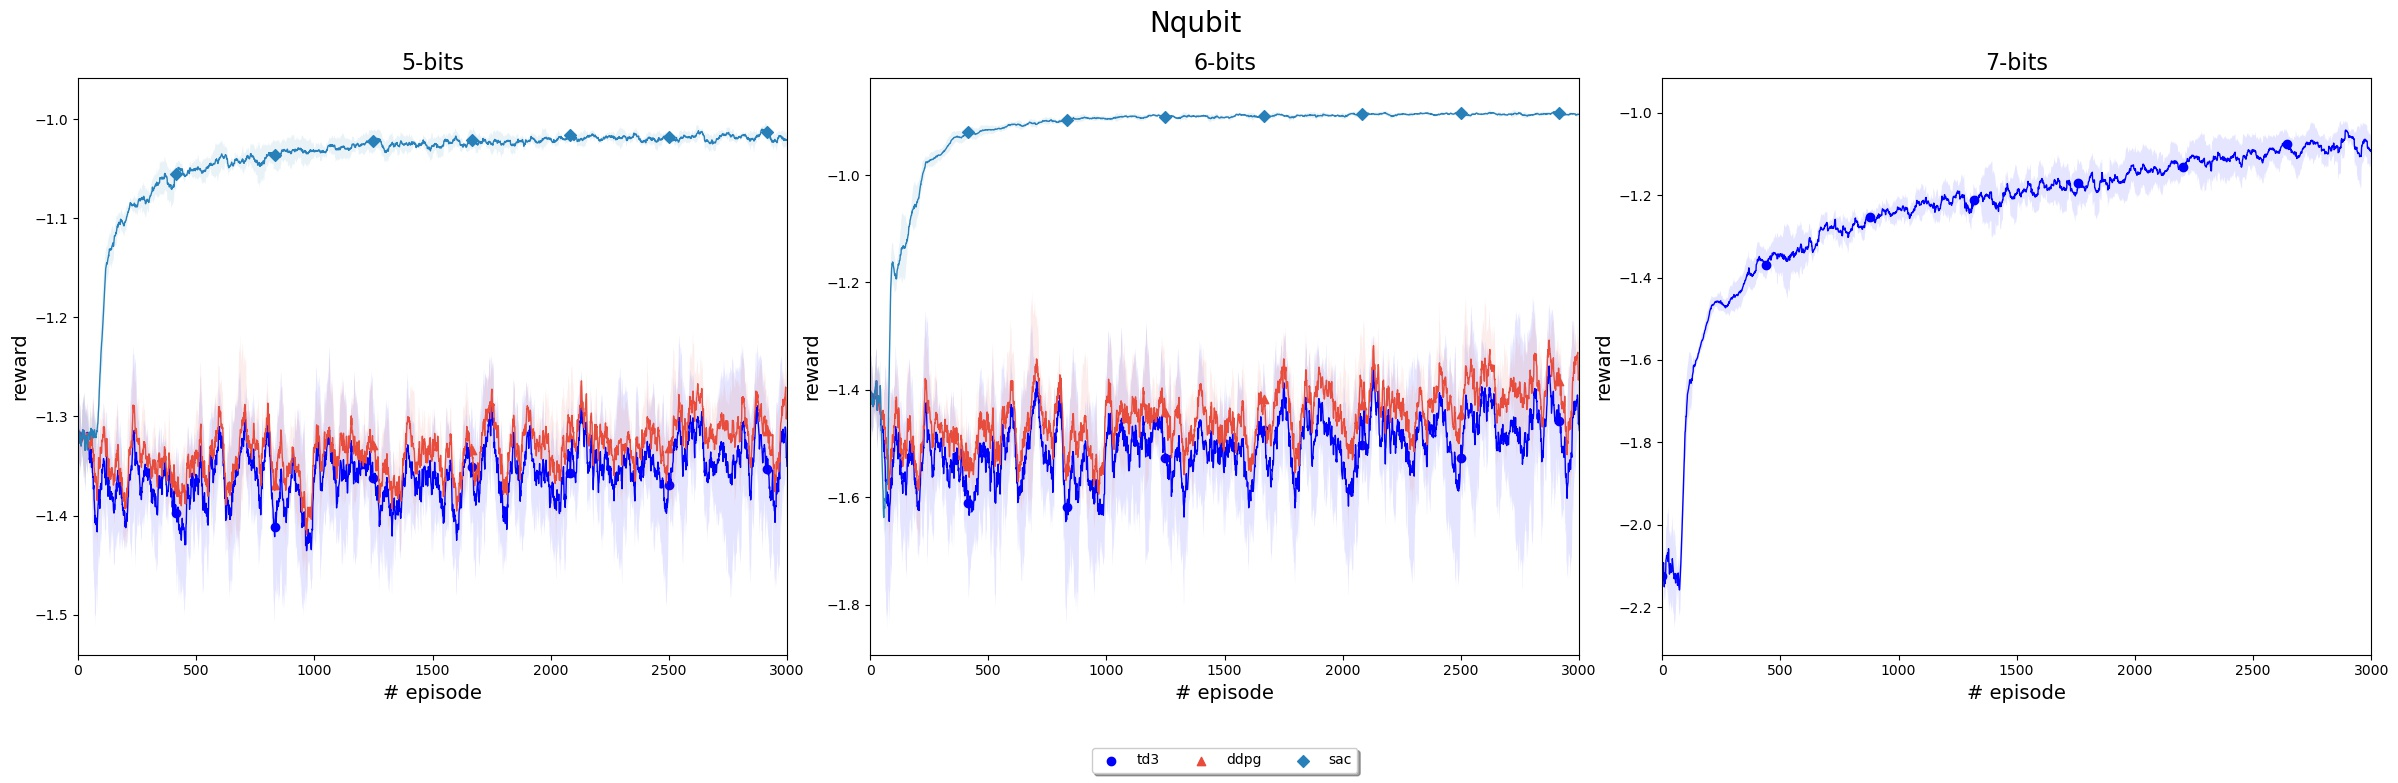
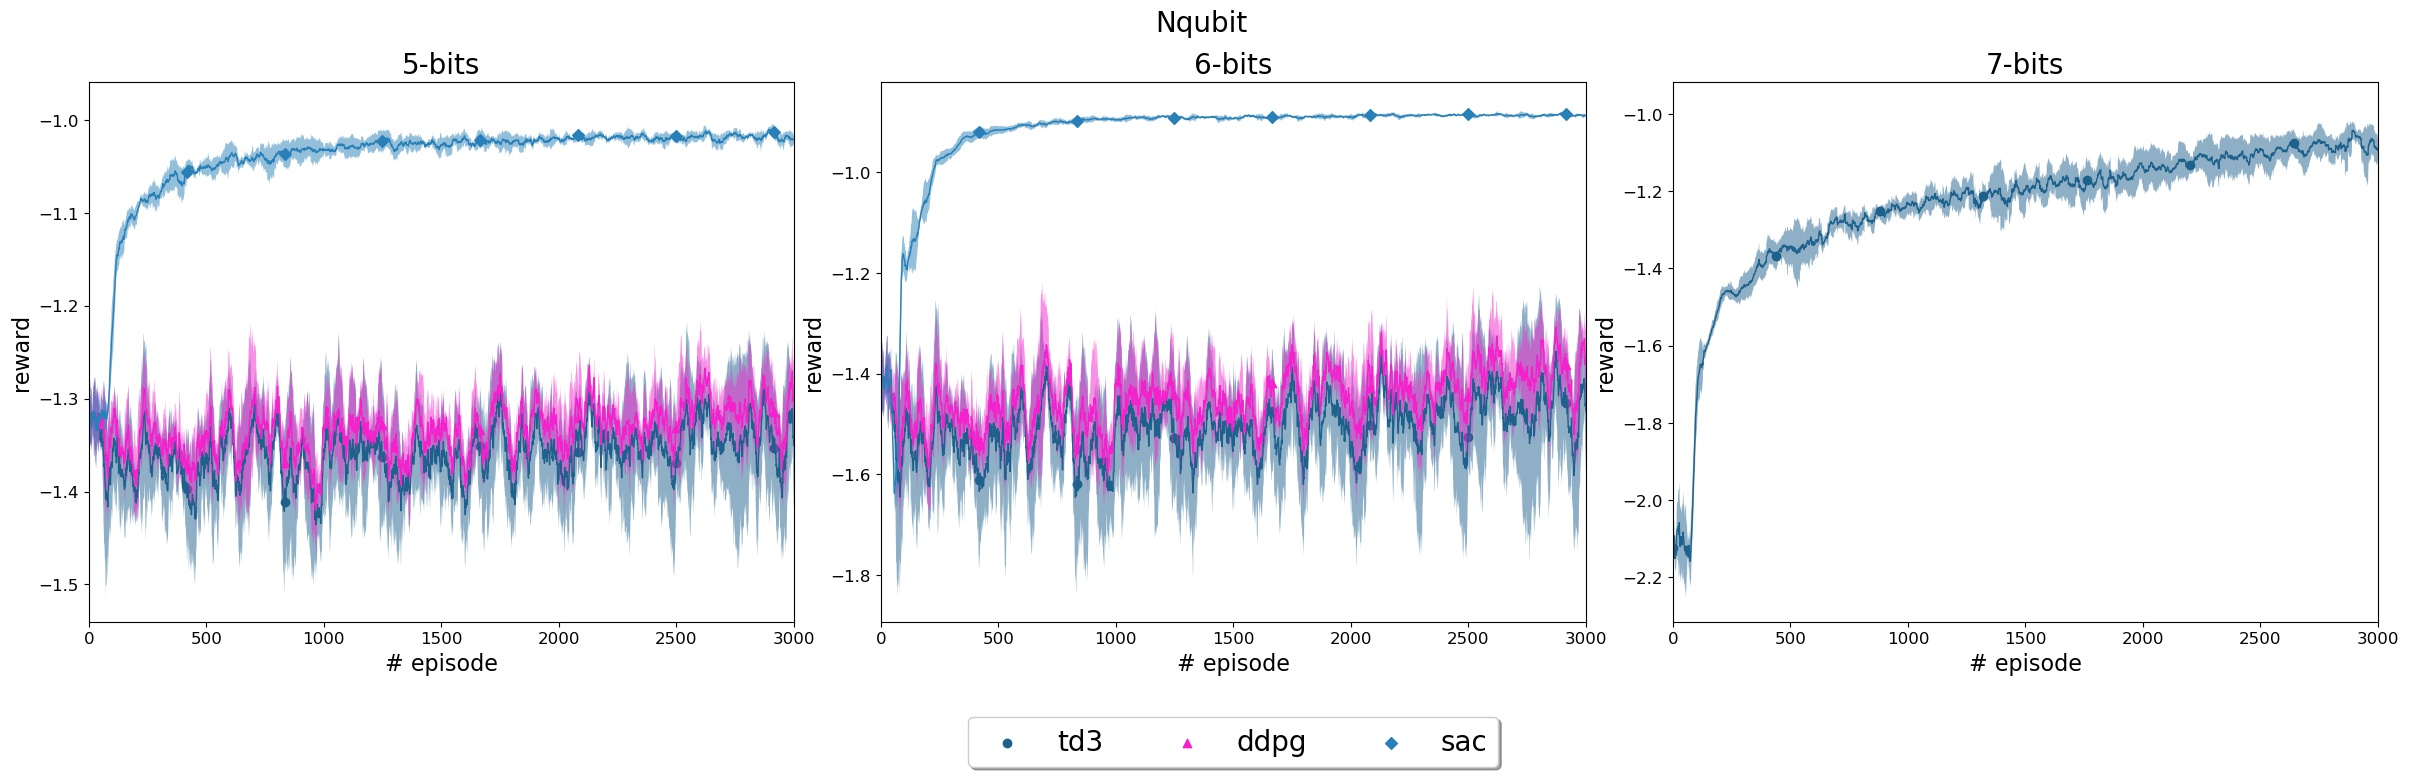
ready to tune the hyperparameters

diff --git a/nqubit/plot/plot_tf_events.py b/nqubit/plot/plot_tf_events.py
@@ -95,9 +95,9 @@ def main_plot():
 
     # config respective axes
     for i in range(3):
-        axs[i].set_xlabel('# episode', fontsize = 14)
-        axs[i].set_ylabel('reward', fontsize = 14)
-        axs[i].set_title('{0}-bits'.format(i + 5), fontsize = 16)
+        axs[i].set_xlabel('# episode', fontsize = 16)
+        axs[i].set_ylabel('reward', fontsize = 16)
+        axs[i].set_title('{0}-bits'.format(i + 5), fontsize = 20)
 
     print('start plotting')
     # plot axes
@@ -111,7 +111,7 @@ def main_plot():
 
         ax_count += 1
     
-    axs[1].legend(loc='upper center', bbox_to_anchor=(0.5, -0.15),fancybox=True, shadow=True, ncol=3)
+    axs[1].legend(loc='upper center', bbox_to_anchor=(0.5, -0.15),fancybox=True, shadow=True, ncol=3, fontsize = 20)
 
     ###
     limits = [3000, 5000, 8000, 10000]
@@ -121,6 +121,11 @@ def main_plot():
     for limit in limits:
         for i in range(3):
             axs[i].set_xlim(0, limit)
+            for label in axs[i].xaxis.get_ticklabels():
+                label.set_fontsize(12)
+            for label in axs[i].yaxis.get_ticklabels():
+                label.set_fontsize(12)
+            
         plt.savefig('{}episodes.jpg'.format(limit), dpi = 100, bbox_inches='tight')
         
 
